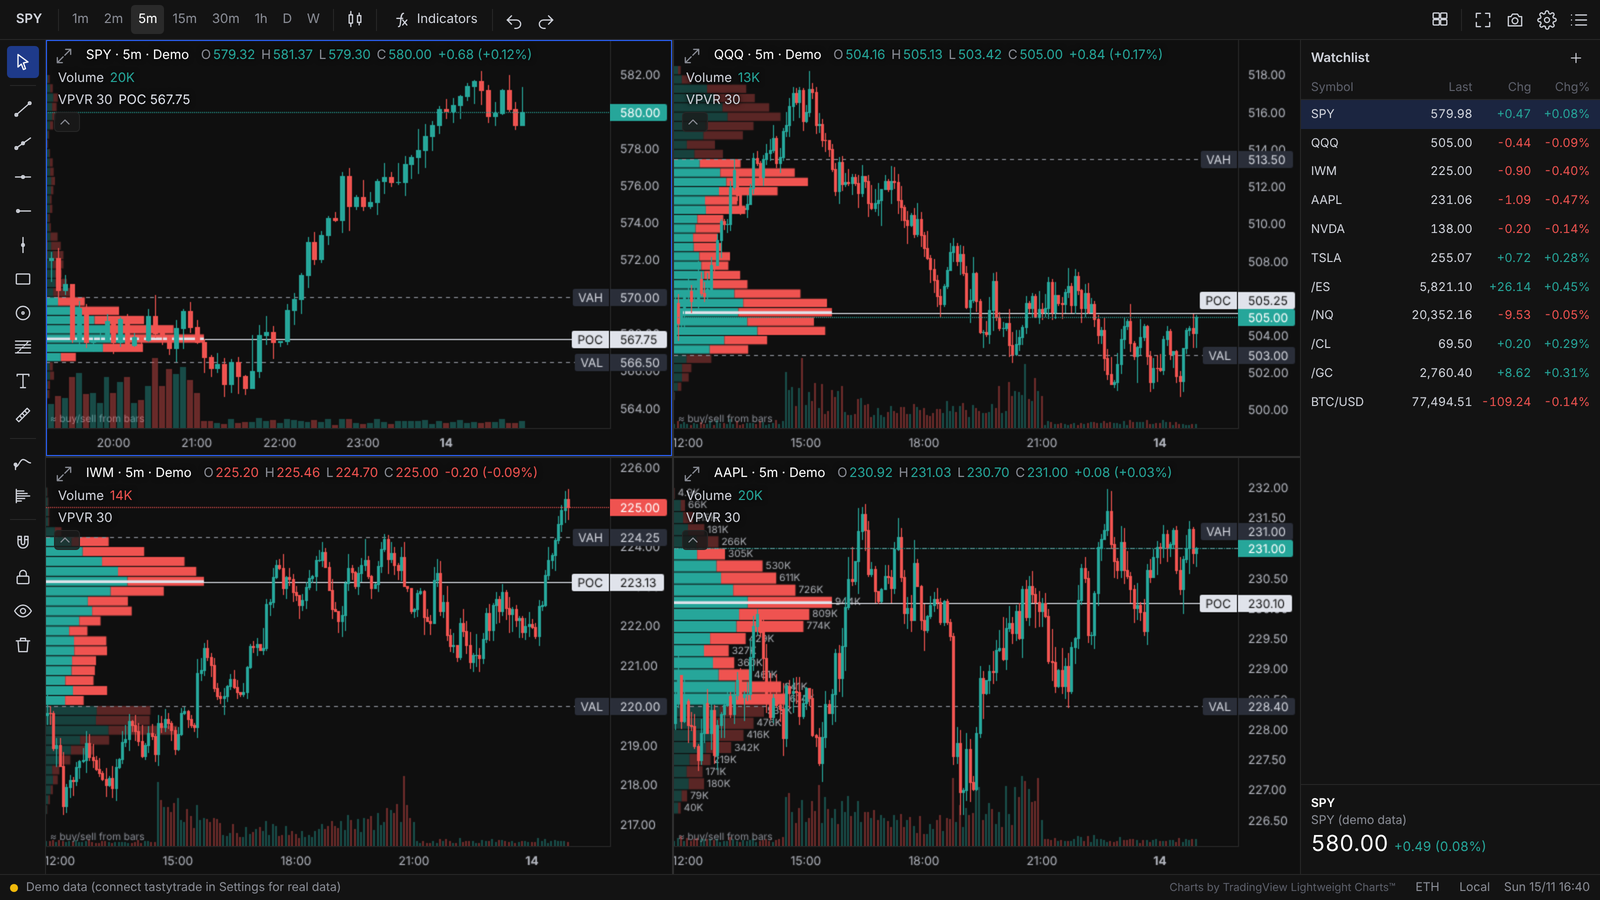
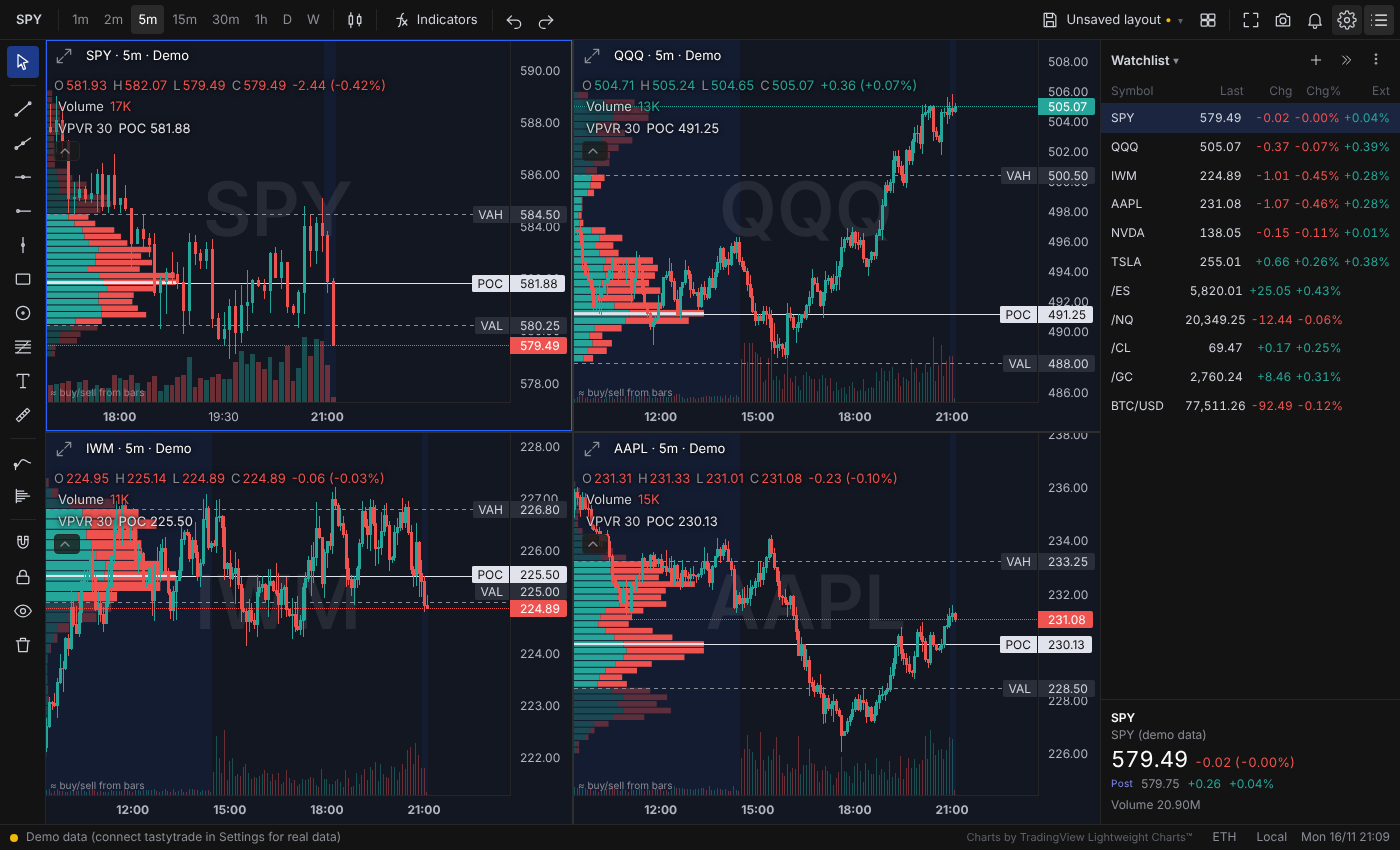
README: new screenshot, 12-chart layout image, 12/24 layouts, toolbar arrows, hide watchlist
Claude-Session: https://claude.ai/code/session_01VvQfTLzHkp5EKehyHCYDFf

diff --git a/README.md b/README.md
@@ -1,14 +1,22 @@
 # Desktop Charts
 
 A TradingView-style charting app that runs on your own computer. Dark theme, timeframe bar,
-drawing toolbar, watchlist, indicator search, volume profile / TPO with POC, VAH and VAL,
+up to 24 charts per window, drawing toolbar, watchlists with extended-hours change, price alerts,
+saved layouts, indicator search, volume profile / TPO with POC, VAH and VAL,
 and anchored VWAP. Charts are drawn with TradingView's open-source
 [Lightweight Charts](https://github.com/tradingview/lightweight-charts) library (Apache 2.0).
 
 Market data comes from tastytrade (DXLink streaming). The app is **read-only charting**:
 it never touches accounts, positions or orders. Without credentials it runs on generated demo data.
 
-![Four 5-minute charts (SPY, QQQ, IWM, AAPL) with volume profiles and the watchlist (demo data)](docs/screenshot.png)
+![Four 5-minute charts (SPY, QQQ, IWM, AAPL) with volume profiles, ticker watermarks, shaded extended hours and the watchlist with its Ext column (demo data)](docs/screenshot.png)
+
+<details>
+<summary>12-chart layout</summary>
+
+![Twelve 5-minute charts in a 6 × 2 layout with the watchlist collapsed (demo data)](docs/layout-12.png)
+
+</details>
 
 ## Run it
 
@@ -50,16 +58,18 @@ Symbols: stocks/ETFs as usual (`AAPL`, `SPY`), futures with a slash for the fron
 |---|---|
 | Change symbol | Click the symbol at top left, or just start typing on the chart |
 | Timeframes | 1m 2m 5m 15m 30m 1h D W in the top bar |
-| Multi-chart layouts | Layout button (grid icon, top right): 1, 2, 3, 4, 6 or 8 charts. Each chart has its own symbol, timeframe, chart type and indicators. Click a chart to make it active (blue outline); the top bar, drawing tools and watchlist act on the active chart. Click a chart's title to change its symbol. Tab / Shift+Tab cycles charts, Alt+Enter (or the arrows icon in a chart's legend) maximizes one chart and restores the layout |
+| Multi-chart layouts | Layout button (grid icon, top right): 1, 2, 3, 4, 6, 8, 12 (6 × 2) or 24 (12 × 2) charts. Each chart has its own symbol, timeframe, chart type and indicators. Click a chart to make it active (blue outline); the top bar, drawing tools and watchlist act on the active chart. Click a chart's title to change its symbol. Tab / Shift+Tab cycles charts, Alt+Enter (or the arrows icon in a chart's legend) maximizes one chart and restores the layout |
 | Sync in layout | In the layout menu: Symbol, Interval, Crosshair (on by default) and Date range. Drawings stay on the chart they were drawn on; horizontal lines and rays show on every chart of that symbol. Select a drawing and use the "This chart / All charts" button to switch |
 | Indicators | **Indicators** button or `/`. Star the ones you use for the Favorites list. Hover a legend row to hide, edit or remove it |
 | Volume profile | *Volume Profile, Visible Range* (on by default), *Session Volume Profile*, *Fixed Range* (range tool in the left toolbar) |
 | TPO | *TPO (Market Profile)*: letters per 30-minute period (blocks when zoomed out), POC, value area, initial balance |
 | Anchored VWAP | Anchor tool in the left toolbar, then click a bar. Bands and anchor time are in its settings |
+| Drawing toolbar | Left side of the window. When the window is too short to show every tool, small up and down arrows appear at the ends; click them to scroll the tools |
 | Drawings | Trend line, ray, horizontal line/ray, vertical line, rectangle, circle, fib retracement, text, measure. Click a drawing to select, drag to move, Delete to remove. Magnet snaps to OHLC |
 | Saved layouts | Layout name button at the top right: Save layout (Ctrl+S), Save as new layout, Rename, and a list of saved layouts to switch between (hover one for the delete ×). A dot after the name means unsaved changes. Layouts are stored in this browser |
 | Price alerts | Right-click a chart → Add alert, press Alt+A (price at the cursor), click Add alert on a horizontal line's toolbar, or use the bell button → + Create. Conditions: crossing, crossing up, crossing down; once or every time. Alerts show as orange lines you can drag. When one fires: chime, pop-up, Windows/Mac notification and an entry in the bell's Log. Alerts are checked while the app is open |
 | Extra windows | Layout button (grid icon) → Windows → + New window opens another window with its own charts, layout and choice of watchlist (pick it from the watchlist name). Watchlists, drawings, alerts and saved layouts are shared between windows. Extra windows reopen with the main window at the same size and position (allow pop-ups for localhost once). Rename or delete them from the same menu |
+| Hide the watchlist | » in the watchlist header or the list button at the top right hides it to give the charts more room; the list button or the tab at the right edge brings it back. Remembered per window |
 | Multiple watchlists | Click the watchlist's name: create a new list, make a copy, rename, switch between lists, or delete one (× on hover) |
 | Watchlist options | ⋮ button on the watchlist: choose columns: Last, Change, Change %, Volume and Ext (pre-market / after-hours change % for stocks; hover for the price) |
 | Undo / redo | Ctrl+Z / Ctrl+Y (drawings) |
